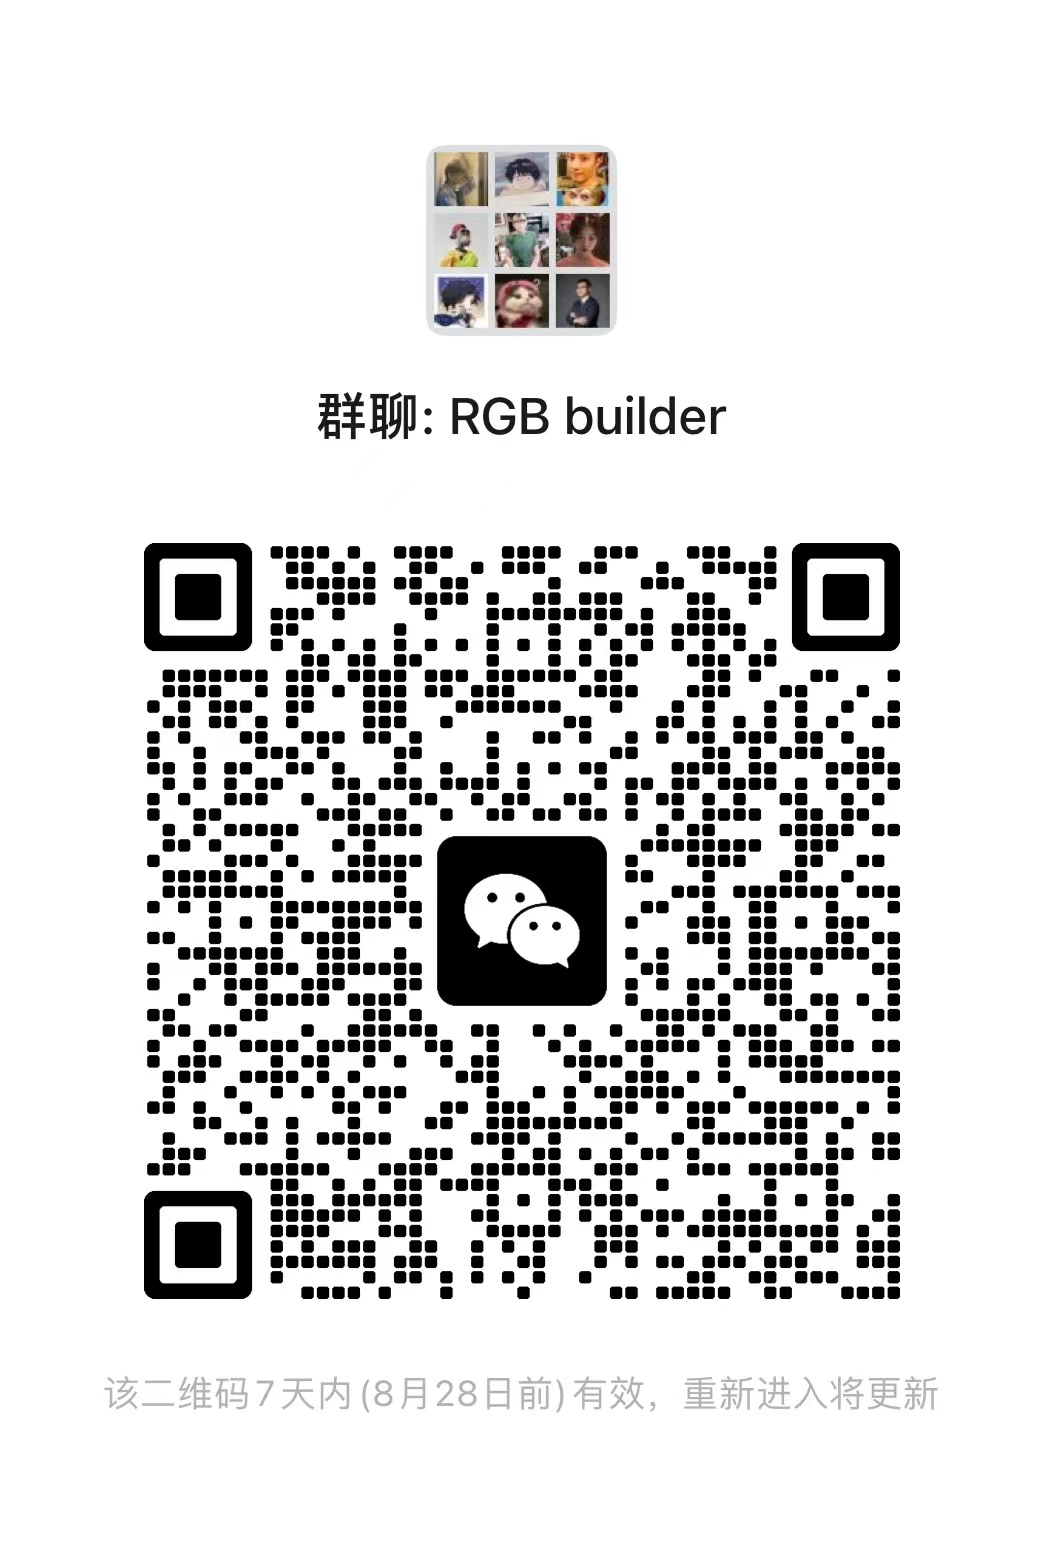
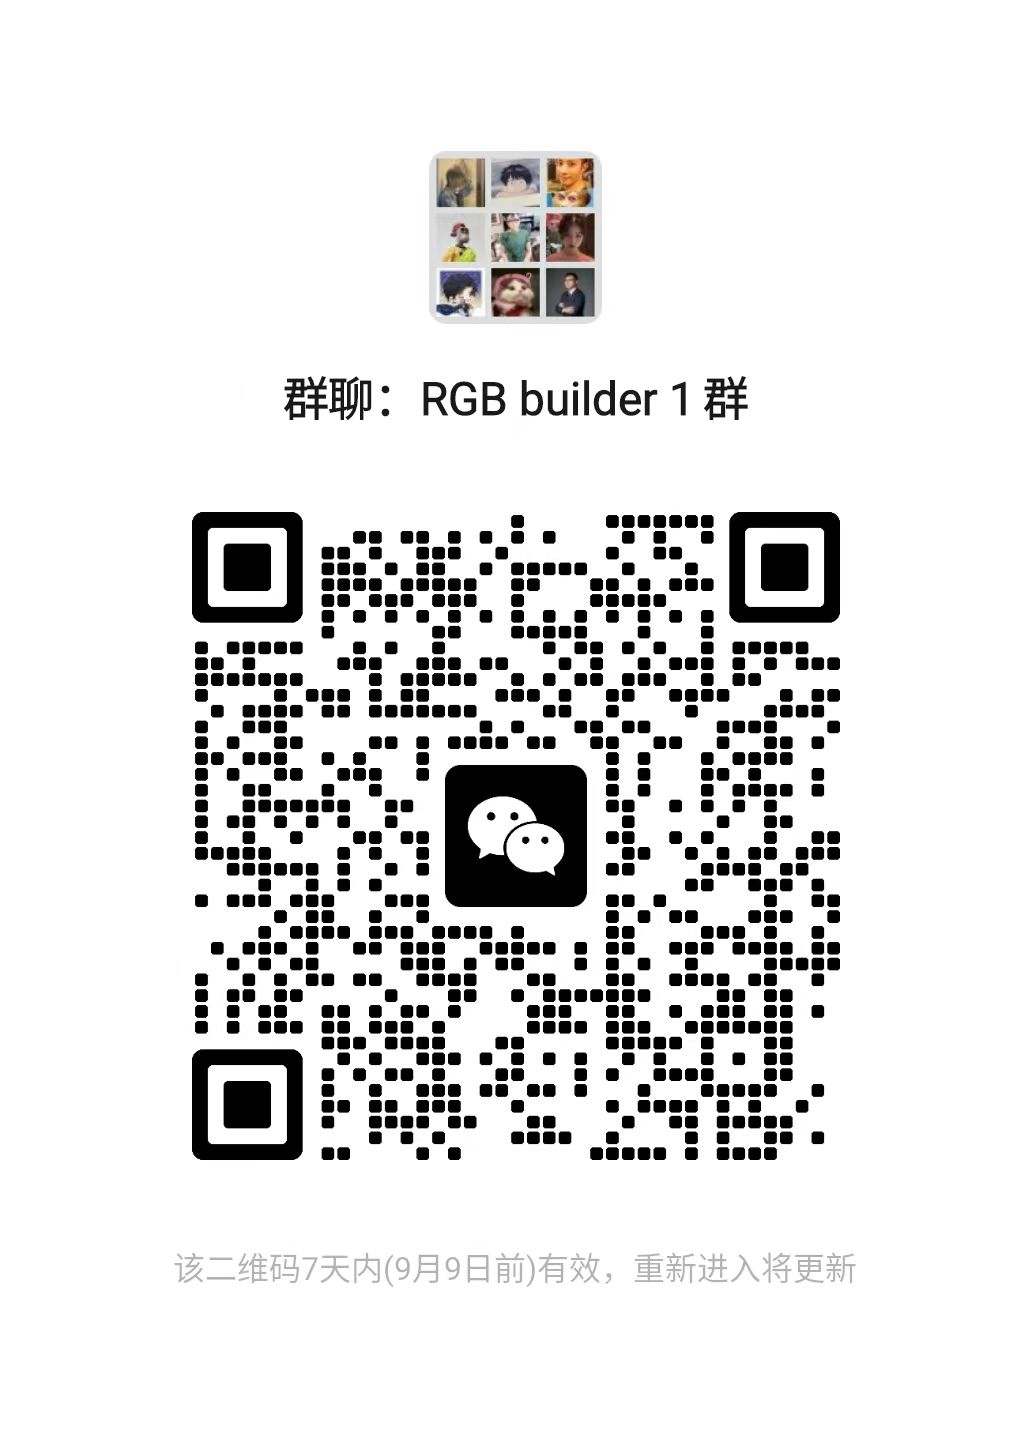
Update wechat QR Code and Add web4 architecture view

Changed region(s): [[0.1242, 0.3438, 0.8691, 0.8438], [0.2793, 0.0938, 0.7449, 0.3125], [0.0931, 0.875, 0.9001, 0.9062]]

diff --git a/README.md b/README.md
@@ -9,6 +9,8 @@
 
 ## Awesome RGB(Really Good Bitcoin)
 
+- ![avatar](./images/web4.jpg)
+
 
 ### RGB Websites
 
